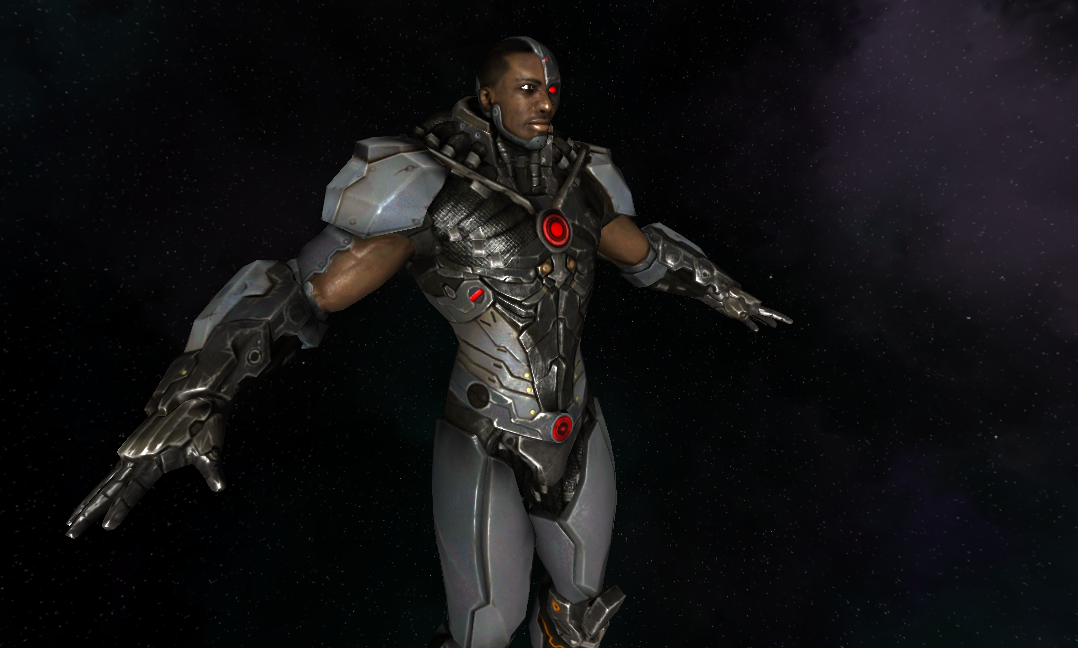
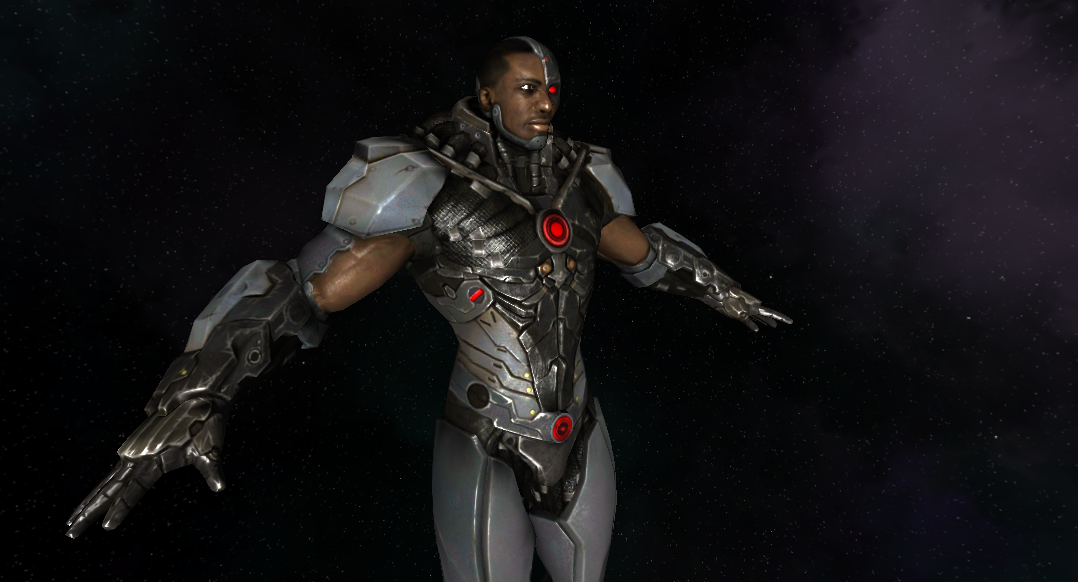
Changed Cryographic image on index

Changed region(s): [[0.0612, 0.0619, 0.7347, 1.0]]

diff --git a/index.html b/index.html
@@ -93,7 +93,7 @@
 
                     <div class="col-md-4">
                         <div class="card text-center">
-                          <img class="card-img-top" src="images/cryographicengine.png" alt="Card image cap">
+                          <img class="card-img-top" src="images/cyborgNormals.png" alt="Card image cap">
                           <div class="card-body">
                           	<h4>Cryographic Engine</h4>
                             <p class="card-text">Developed using C++ and OpenGL. </p>
